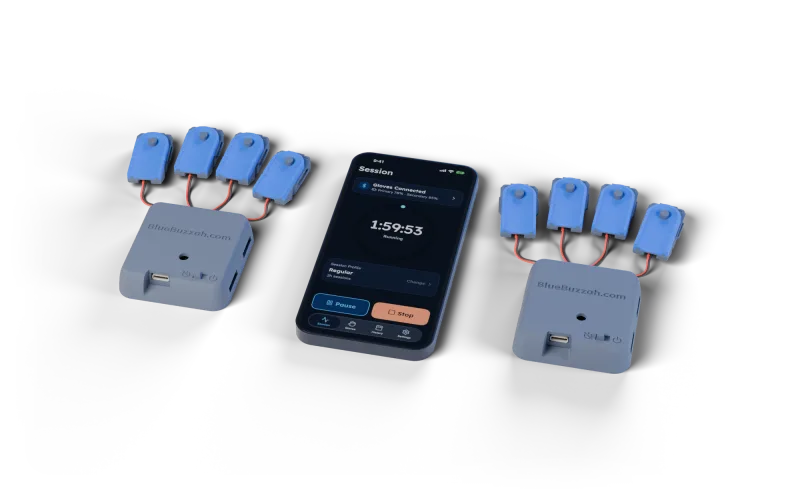
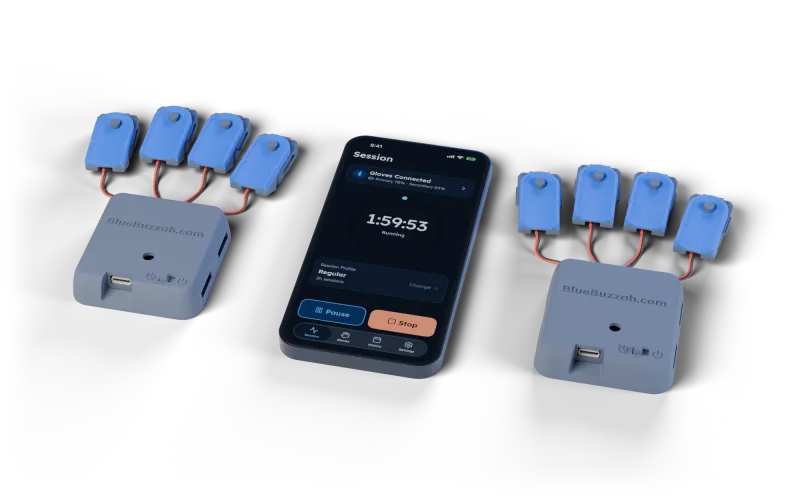
feat(home): rebalance the hero around the product render
The headline steps down to display-l, the render is framed tighter and gets a wider column, and below 900px it follows the headline in the source and on screen: edge to edge on phones, capped at prose-max on tablets.

Changed region(s): [[0.0625, 0.21, 0.9688, 0.9], [0.5, 0.54, 0.5312, 0.57]]

diff --git a/src/.vitepress/theme/Home.vue b/src/.vitepress/theme/Home.vue
@@ -3,18 +3,22 @@
 		<section class="hero">
 			<div class="container hero__inner">
 				<div class="stack hero__text">
-					<!-- mirrors bundle.js StatusBadge tone="brand" icon="flask-conical" (DS import 1793729877-6a2e) -->
-					<p><span class="bb-badge bb-badge--brand"><svg class="bb-icon" width="18" height="18" viewBox="0 0 24 24" aria-hidden="true" focusable="false"><use href="/assets/icons/flask-conical.svg#icon"/></svg><span>Early Access</span></span></p>
-					<h1 class="display-xl">The companion app for BlueBuzzah gloves</h1>
-					<p class="body-l prose">BuzzahBuddy lets you control sessions, adjust and customize settings, and track usage, all from your phone. Open-source and always free.</p>
-					<!-- web.md Download pages: official store badges, equal weight, no platform detection -->
-					<div class="button-row" id="download">
-						<a class="store-badge" href="https://testflight.apple.com/join/DMuPNBGA" aria-describedby="early-access-note"><img src="/assets/apple-appstore.png" alt="Download on the App Store" width="512" height="171"></a>
-						<a class="store-badge" href="https://play.google.com/store/apps/details?id=com.rbonestell.buzzahbuddy"><img src="/assets/google-playstore.png" alt="Get it on Google Play" width="478" height="142"></a>
+					<div class="stack hero__lead">
+						<!-- mirrors bundle.js StatusBadge tone="brand" icon="flask-conical" (DS import 1793729877-6a2e) -->
+						<p><span class="bb-badge bb-badge--brand"><svg class="bb-icon" width="18" height="18" viewBox="0 0 24 24" aria-hidden="true" focusable="false"><use href="/assets/icons/flask-conical.svg#icon"/></svg><span>Early Access</span></span></p>
+						<h1 class="display-l">The companion app for BlueBuzzah gloves</h1>
 					</div>
-					<p class="body-s prose" id="early-access-note">On iPhone, BuzzahBuddy is an early test version that installs through Apple's TestFlight app, so expect some rough edges. Features may change before the full release.</p>
+					<img class="hero__art" src="/assets/hero-pair.webp" srcset="/assets/hero-pair-800.webp 800w, /assets/hero-pair.webp 1600w" sizes="(min-width: 900px) 57vw, 100vw" alt="A phone showing BuzzahBuddy's Session screen with a session running, between the electronics for a pair of BlueBuzzah gloves: 2 cases, each with 4 tactors on short leads" width="1600" height="1000" fetchpriority="high">
+					<div class="stack hero__body">
+						<p class="body-l prose">BuzzahBuddy lets you control sessions, adjust and customize settings, and track usage, all from your phone. Open-source and always free.</p>
+						<!-- web.md Download pages: official store badges, equal weight, no platform detection -->
+						<div class="button-row" id="download">
+							<a class="store-badge" href="https://testflight.apple.com/join/DMuPNBGA" aria-describedby="early-access-note"><img src="/assets/apple-appstore.png" alt="Download on the App Store" width="512" height="171"></a>
+							<a class="store-badge" href="https://play.google.com/store/apps/details?id=com.rbonestell.buzzahbuddy"><img src="/assets/google-playstore.png" alt="Get it on Google Play" width="478" height="142"></a>
+						</div>
+						<p class="body-s prose" id="early-access-note">On iPhone, BuzzahBuddy is an early test version that installs through Apple's TestFlight app, so expect some rough edges. Features may change before the full release.</p>
+					</div>
 				</div>
-				<img class="hero__art" src="/assets/hero-pair.webp" srcset="/assets/hero-pair-800.webp 800w, /assets/hero-pair.webp 1600w" sizes="(min-width: 900px) 55vw, 100vw" alt="A phone showing BuzzahBuddy's Session screen with a session running, between the electronics for a pair of BlueBuzzah gloves: 2 cases, each with 4 tactors on short leads" width="1600" height="1000" fetchpriority="high">
 			</div>
 		</section>
 

diff --git a/src/public/css/site.css b/src/public/css/site.css
@@ -46,8 +46,10 @@ a.bb-btn { box-sizing: border-box; }
 /* Hero on abyss (web.md Home page 1) ----------------------------------- */
 .hero { background: var(--abyss); color: var(--on-abyss); padding-block: var(--space-16); }
 .hero__inner { display: grid; gap: var(--space-8); align-items: center; }
-/* product render in place of the mark (web.md Home page 1): fills its column, stacks under the text below 900px */
-.hero__art { width: 100%; height: auto; }
+/* product render in place of the mark (web.md Home page 1). It follows the headline in the source, so phones show it
+   right under the headline and screen readers meet it in the same order. Its edges are fully transparent, so on
+   phones it runs edge to edge; on tablets it stops at prose-max. */
+.hero__art { display: block; width: calc(100% + 2 * var(--space-4)); max-width: none; height: auto; margin-inline: calc(-1 * var(--space-4)); }
 /* Button outline rule: in light themes the brand fill nearly matches abyss (2.5:1, 1.56:1 in light-hc),
    so it gets an outline in its label colour (components/Button/README.md) */
 .hero .bb-btn--primary { border-color: var(--on-brand); }
@@ -56,9 +58,15 @@ a.bb-btn { box-sizing: border-box; }
 .store-badge img { height: var(--target-lg); width: auto; }
 @media (min-width: 600px) {
   .hero { padding-block: var(--space-24); }
+  .hero__art { width: 100%; max-width: var(--prose-max); margin-inline: auto; }
 }
 @media (min-width: 900px) {
-  .hero__inner { grid-template-columns: minmax(0, 1fr) minmax(0, 1.25fr); }
+  /* two columns: the lead (headline) and body left, the render right and centred beside them. The 1fr rows above and
+     below take any height the render adds, so the text stays vertically centred. */
+  .hero__text { display: grid; grid-template-columns: minmax(0, 1fr) minmax(0, 1.35fr); grid-template-rows: 1fr auto auto 1fr; column-gap: var(--space-8); }
+  .hero__lead { grid-column: 1; grid-row: 2; }
+  .hero__body { grid-column: 1; grid-row: 3; }
+  .hero__text > .hero__art { grid-column: 2; grid-row: 1 / -1; align-self: center; width: 100%; max-width: none; margin: 0; }
 }
 
 /* Lockup: mark + BuzzahBuddy in Lexend 600, gap space-3 (README Logo) --- */
